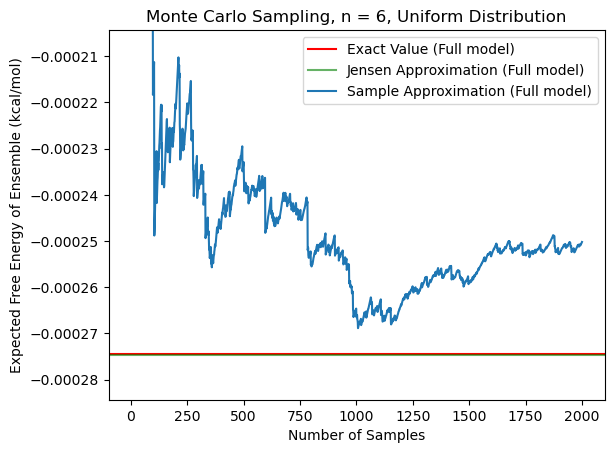
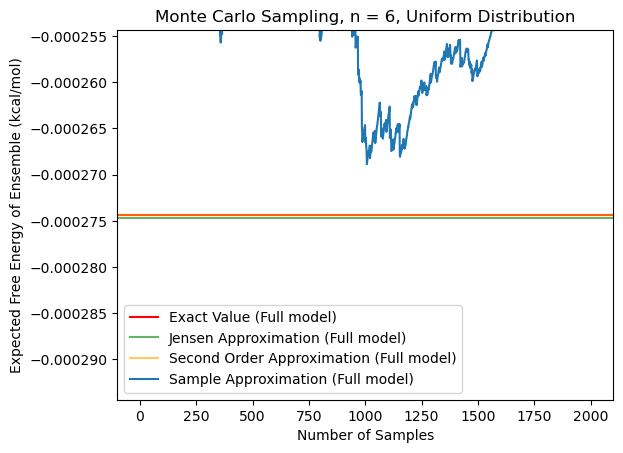
new graphs

diff --git a/ncrna_design/sampling/graph.py b/ncrna_design/sampling/graph.py
@@ -8,6 +8,7 @@ if sys.argv[2] == 'samples':
         n = int(lines[0].split(', ')[0].split(': ')[1])
         exact_value = float(lines[n+1].split(': ')[1])
         jensen_value_full = float(lines[n+2].split(': ')[1])
+        second_order = float(lines[n+3].split(': ')[1])
 
         k = []
         val = []
@@ -16,11 +17,12 @@ if sys.argv[2] == 'samples':
                 k.append(int(line.split()[0]))
                 val.append(float(line.split()[1]))
 
-        plt.ylim(exact_value-0.0002, exact_value+0.0002)
+        plt.ylim(exact_value-0.002, exact_value+0.002)
 
         plt.axhline(y=exact_value, color='r', alpha=1.0, label='Exact Value (Full model)')
         # plt.axhline(y=jensen_value_simple, color='orange', label='Jensen Approximation (Simple model)')
         plt.axhline(y=jensen_value_full, color='g', alpha=0.6, label='Jensen Approximation (Full model)')
+        plt.axhline(y=second_order, color='orange', alpha=0.6, label='Second Order Approximation (Full model)')
 
         plt.xlabel('Number of Samples')
         plt.ylabel('Expected Free Energy of Ensemble (kcal/mol)')

diff --git a/ncrna_design/analysis.py b/ncrna_design/analysis.py
@@ -152,22 +152,22 @@ def valid(x, y):
     return True
 
 def main():
-    find best solutions
-    arr = []
-    sol = {}
-    for seq in generate_sequences('ACGU', n=12):
-        if "".join(seq[1:4]) != 'AAA':
-            continue
-        prob = get_boltz_prob(seq, '(...)', sharpturn=3)
-        seq = "".join(seq)
-        arr.append((-prob, seq))
-        sol[seq] = prob
-    arr.sort()
+    # # find best solutions
+    # arr = []
+    # sol = {}
+    # for seq in generate_sequences('ACGU', n=12):
+    #     if "".join(seq[1:4]) != 'AAA':
+    #         continue
+    #     prob = get_boltz_prob(seq, '(...)', sharpturn=3)
+    #     seq = "".join(seq)
+    #     arr.append((-prob, seq))
+    #     sol[seq] = prob
+    # arr.sort()
 
-    for x in arr[:5000]:
-        print(f"{x[1]} {-x[0]:.6f}")
+    # for x in arr[:5000]:
+    #     print(f"{x[1]} {-x[0]:.6f}")
 
-    return
+    # return
 
     # graph
     results_path = f'./results/{sys.argv[1]}/{sys.argv[2]}.txt'
